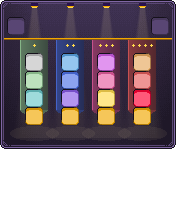
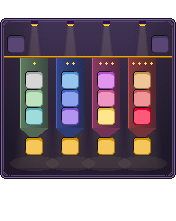
Paths cross the chest/inventory gap; rank menu shifted one row down so rewards sit after the gap

diff --git a/Flux/assets/rangs/gen_fond.py b/Flux/assets/rangs/gen_fond.py
@@ -1,12 +1,12 @@
 """Background of the rank menu (museum, chosen on 2026-10-28), from the round-4 proposals (gen_v4.py, variant 1).
 
-Layout (6-row chest, hidden inventory):
-  row 0          back (0) and menu icon (8), the ceiling lamps between them
-  rows 2 to 4    4 tier banners on a gold rod, 3 rank slots each, weakest on top: columns 1, 3, 5, 7
-                 (slots 19/28/37, 21/30/39, 23/32/41, 25/34/43)
-  row 5          reward slot of each tier, at the tip of its banner (46, 48, 50, 52)
-Raised by one row on 2026-10-28 (rewards were in the inventory area). The path itself (rank to rank to reward) is
-drawn by Flux in game (menu paths, coloured per step).
+Layout (6-row chest, hidden inventory), the whole drawing one row down (row 0 empty):
+  row 1          back (9) and menu icon (17), the ceiling lamps between them
+  rows 3 to 5    4 tier banners on a gold rod, 3 rank slots each, weakest on top: columns 1, 3, 5, 7
+                 (slots 28/37/46, 30/39/48, 32/41/50, 34/43/52)
+  inventory row  reward slot of each tier (55, 57, 59, 61): the gap between the chest and the inventory separates
+                 it from the last rank without an empty row
+The path itself (rank to rank to reward) is drawn by Flux in game (menu paths, coloured per step).
 
 Usage: python gen_fond.py <png> [preview x3]  (Pillow)
 """
@@ -19,12 +19,13 @@ sys.path.insert(0, os.path.dirname(HERE))
 from fond_lib import generique_raccourci, poser, tampon_case  # noqa: E402
 
 W, H = 176, 221
-BOTTOM = 148
+TOP = 18  # the whole menu starts one row down: row 0 stays empty
+BOTTOM = 178
 FRAME = 10
 COLS = (1, 3, 5, 7)
-RANK_ROWS = (2, 3, 4)
-REWARD_ROW = 5
-ROD_Y = 38
+RANK_ROWS = (3, 4, 5)
+REWARD_ROW = 6
+ROD_Y = 56
 TIER_COLOURS = ["9AD29A", "4E72E6", "E65C9F", "E65C5C"]  # middle rank of each tier
 RANK_COLOURS = ["C0C0C0", "9AD29A", "6AC7C7", "5CA8E6", "4E72E6", "8A5CE6", "D15CE6", "E65C9F", "FFD94D",
                 "E6A85C", "E65C5C", "FF0033"]
@@ -84,17 +85,17 @@ def spotlight(im, cx, top, bottom, spread, colour=(255, 232, 170), strength=34):
     alpha = im.split()[3].load()
     for y in range(im.height):
         for x in range(im.width):
-            if px[x, y][3] and (alpha[x, y] == 0 or x < 4 or x > im.width - 5 or y < 3 or y > bottom + 2):
+            if px[x, y][3] and (alpha[x, y] == 0 or x < 4 or x > im.width - 5 or y < TOP + 3 or y > bottom + 2):
                 px[x, y] = (0, 0, 0, 0)
     im.alpha_composite(layer)
 
 
 def background():
-    im = generique_raccourci(os.path.join(os.path.dirname(HERE), "menu_generique.png"), 0, BOTTOM)
+    im = generique_raccourci(os.path.join(os.path.dirname(HERE), "menu_generique.png"), TOP, BOTTOM)
     case = tampon_case()
     for col in COLS:
         x, _ = objet(col)
-        spotlight(im, x + 8, 6, BOTTOM - FRAME, 20)
+        spotlight(im, x + 8, TOP + 6, BOTTOM - FRAME, 20)
     d = ImageDraw.Draw(im)
     for t, col in enumerate(COLS):
         x, _ = objet(col)
@@ -111,15 +112,15 @@ def background():
     for t, col in enumerate(COLS):
         x, _ = objet(col)
         cx = x + 8
-        d.rectangle([cx - 3, 3, cx + 3, 6], c("2A1250"))
-        d.line([(cx - 3, 6), (cx + 3, 6)], OR)
-        d.line([(cx - 2, 7), (cx + 2, 7)], OR_CLAIR)
+        d.rectangle([cx - 3, TOP + 3, cx + 3, TOP + 6], c("2A1250"))
+        d.line([(cx - 3, TOP + 6), (cx + 3, TOP + 6)], OR)
+        d.line([(cx - 2, TOP + 7), (cx + 2, TOP + 7)], OR_CLAIR)
         for k in range(t + 1):
             star(im, cx - 3 * t + 6 * k, ROD_Y + 7, OR_CLAIR)
         for r, row in enumerate(RANK_ROWS):
             poser(im, tint(case, RANK_COLOURS[t * 3 + r]), *objet(slot(row, col)))
         poser(im, tint(case, "F0A800"), *objet(slot(REWARD_ROW, col)))
-    for n in (0, 8):  # back and menu icon, first row of the menu
+    for n in (9, 17):  # back and menu icon, first row of the menu (row 1)
         poser(im, case, *objet(n))
     return im
 

diff --git a/Flux/src/main/java/fr/influencraft/flux/PathRenderer.java b/Flux/src/main/java/fr/influencraft/flux/PathRenderer.java
@@ -208,12 +208,11 @@ public final class PathRenderer {
             for (int x = x1; x < x2; x += 18) horizontal.add(new Piece(glyph("chemin_h", state, a[1] + 7), x + 8, H_W));
         } else if (a[0] == b[0]) {
             int y1 = Math.min(a[1], b[1]), y2 = Math.max(a[1], b[1]);
-            if ((y2 - y1) % 18 != 0) {
-                warnOnce(path.id() + from + "-" + to, "chemin " + path.id() + " : cases " + from + " et " + to
-                        + " non reliables (écart vertical de " + (y2 - y1) + " px, pas un multiple de 18)");
-                return;
-            }
-            for (int y = y1; y < y2; y += 18) vertical.add(new Piece(glyph("chemin_v", state, y + 8), a[0] + 7, V_W));
+            // whole rows: one piece per row; across the gap between the chest and the inventory (not a multiple of
+            // 18), the last piece is pulled up so it ends on the lower slot (influroad has those heights)
+            int y = y1;
+            for (; y + 18 <= y2; y += 18) vertical.add(new Piece(glyph("chemin_v", state, y + 8), a[0] + 7, V_W));
+            if (y < y2) vertical.add(new Piece(glyph("chemin_v", state, y2 - 18 + 8), a[0] + 7, V_W));
         } else {
             warnOnce(path.id() + from + "-" + to, "chemin " + path.id() + " : cases " + from + " et " + to
                     + " ni sur la même ligne ni sur la même colonne (liaison ignorée)");

diff --git a/Flux/assets/influroad/gen_influroad.py b/Flux/assets/influroad/gen_influroad.py
@@ -19,6 +19,9 @@ HEIGHT = {"chemin_h": 3, "chemin_v": 19, "chemin_h_demi": 3, "chemin_v_demi": 10
 ROWS = [18 + 18 * r for r in range(6)] + [139, 157, 175] + [197]
 # Inventaire d'un coffre de 2 rangées (menu de l'outil, FluxTools) : 103 + (2 - 4) x 18, puis barre d'action.
 ROWS += [67, 85, 103, 125]
+# Vertical pieces that cross the gap between the last chest row and the first inventory row (6-row menu): the piece
+# ends on the inventory slot, its top at 139 - 18 + 8 (PathRenderer.link).
+CROSSING_V = [129]
 # Décalage vertical de chaque pièce par rapport au haut de la case (cf. LISEZMOI.md).
 DY = {"chemin_h": [7], "chemin_h_demi": [7], "chemin_v": [8], "chemin_v_demi": [-1, 8], "chemin_noeud": [6]}
 
@@ -34,7 +37,7 @@ lines = ["info:", "  namespace: influroad", "",
          "font_images:"]
 count = 0
 for p in PIECES:
-    ys = sorted({row + dy for row in ROWS for dy in DY[p]})
+    ys = sorted({row + dy for row in ROWS for dy in DY[p]} | (set(CROSSING_V) if p == "chemin_v" else set()))
     for s in STATES:
         for y in ys:
             lines += [f"  {p}_{s}_y{y}:", "    suggest_in_command: false", "    show_in_gui: false",

diff --git a/CLAUDE.md b/CLAUDE.md
@@ -74,6 +74,10 @@ The plugins are written **as English plugins, then adapted to French** for our s
 - **First row of every menu: back button in its first slot, the icon of the current menu (what this page is, with its
   explanation in the tooltip) in its last slot**, like the pass. "First row" means the first row of the drawn menu,
   wherever it sits: a menu drawn in the hidden inventory area starts there, not at slot 0 of the chest.
+- **Use the window's own spacing instead of empty rows.** The hidden inventory starts 14 px lower than a regular row
+  would: rather than wasting an empty slot row to separate two groups, shift the whole drawing (background
+  included) so the separation falls on the chest/inventory gap. A menu does not have to start at row 0. Paths cross
+  that gap (`PathRenderer`, `influroad` crossing pieces).
 - Backgrounds are free drawings (any height, any position); keep a reminder of the generic background
   (`Flux/assets/menu_generique.png`) and the violet theme, plus a colour accent of the menu's own.
 
